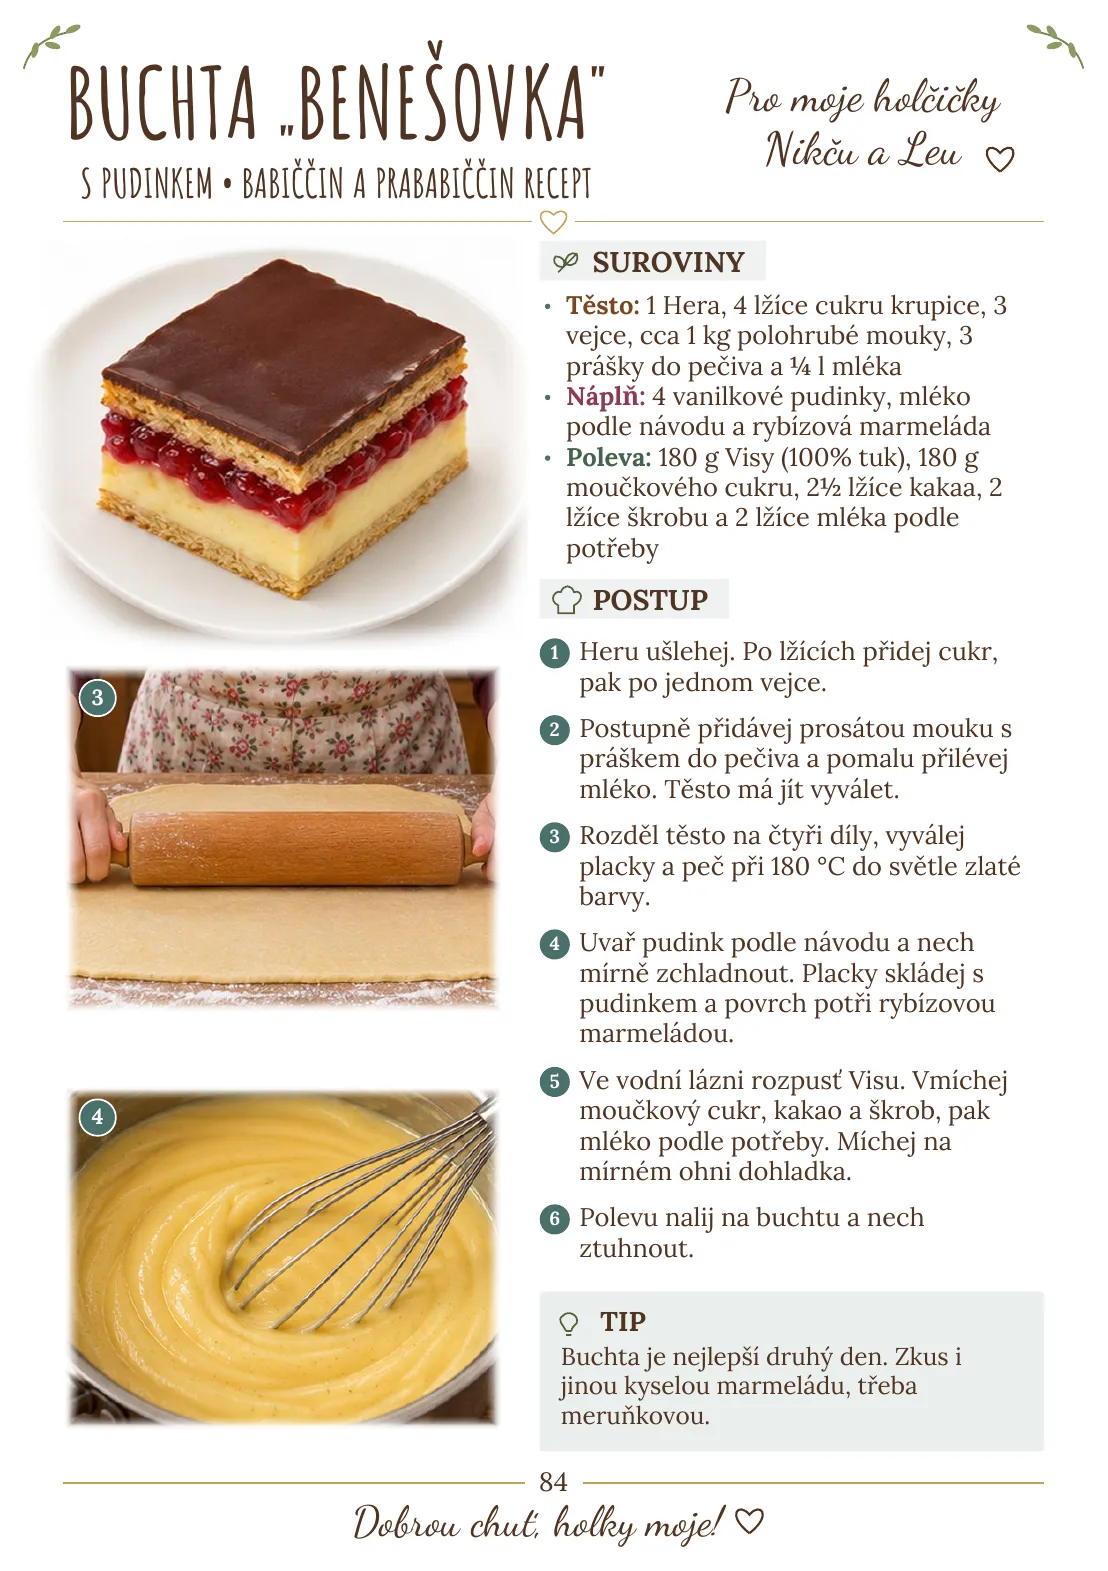
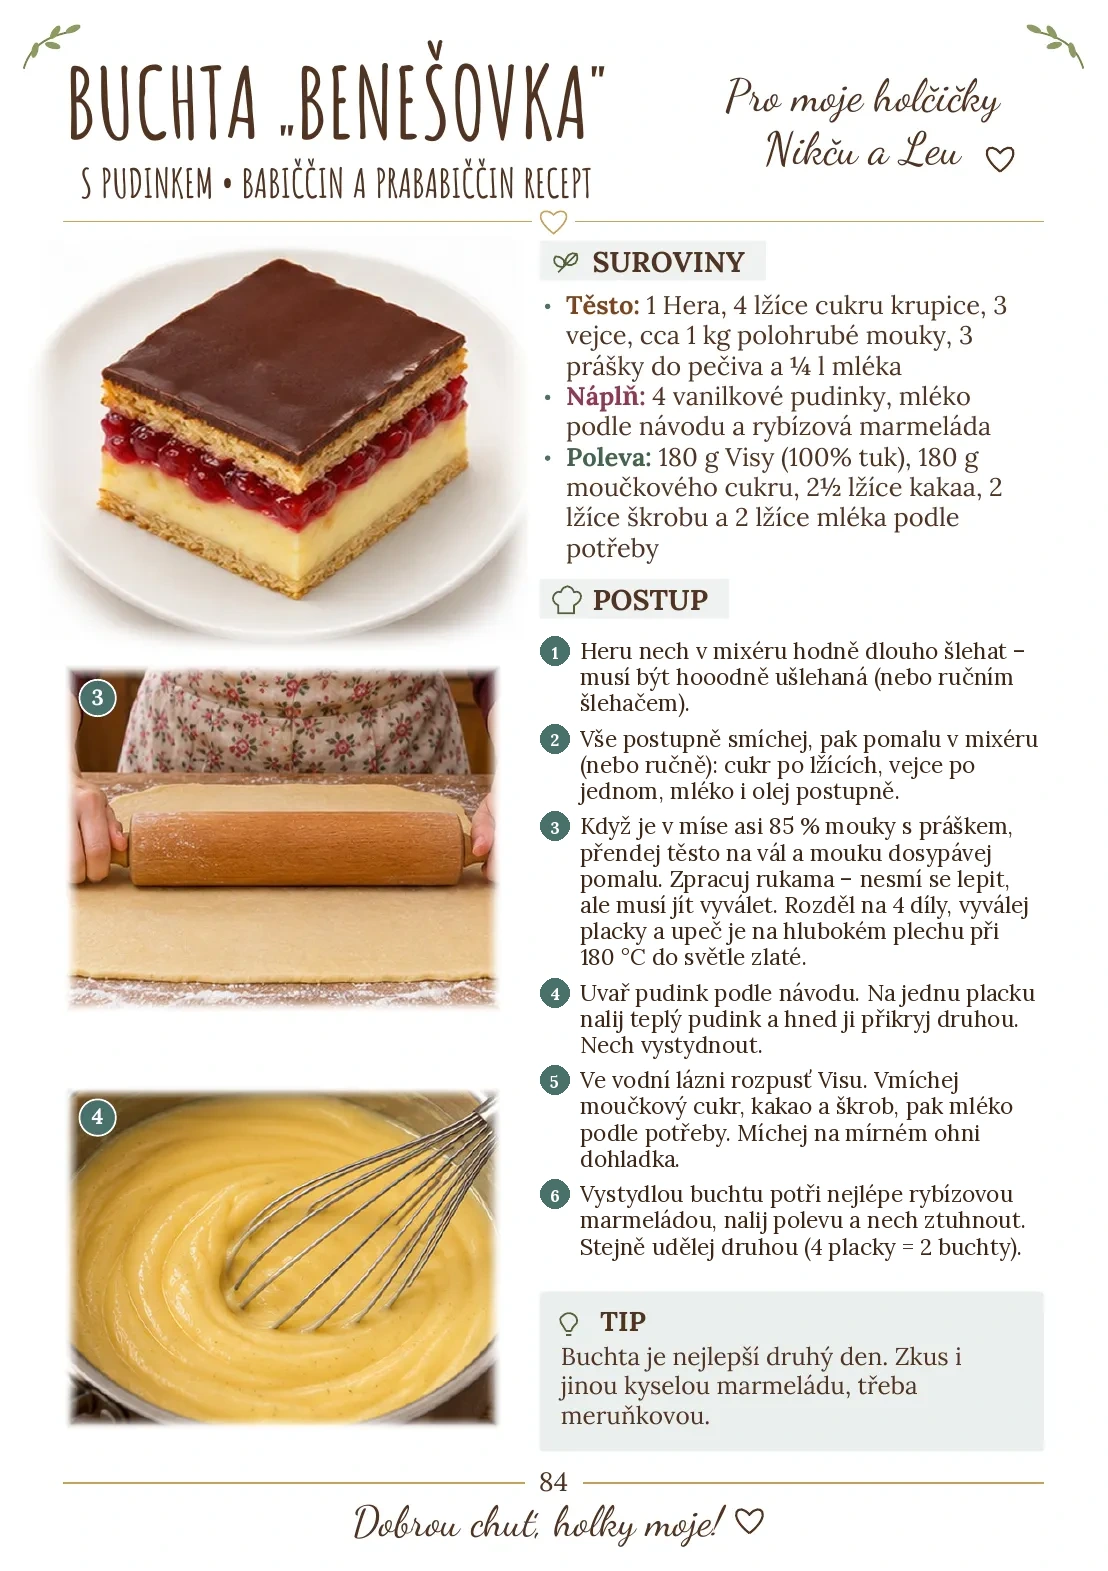
Benešovka: nový postup podle maminčina textu
Claude-Session: https://claude.ai/code/session_01Ws1vwXbsQEwQydLbxLHBm6

Changed region(s): [[0.491, 0.4055, 0.9206, 0.8109]]

diff --git a/sw.js b/sw.js
@@ -1,4 +1,4 @@
-const V='kucharka-v19';
+const V='kucharka-v20';
 const FILES=["./", "index.html", "style.css", "app.js", "data.json", "manifest.webmanifest", "icons/apple-touch-icon.png", "icons/favicon.png", "icons/icon-192.png", "icons/icon-512.png", "icons/icon-maskable-512.png", "pages/p001.webp", "pages/p002.webp", "pages/p003.webp", "pages/p004.webp", "pages/p005.webp", "pages/p006.webp", "pages/p007.webp", "pages/p008.webp", "pages/p009.webp", "pages/p010.webp", "pages/p011.webp", "pages/p012.webp", "pages/p013.webp", "pages/p014.webp", "pages/p015.webp", "pages/p016.webp", "pages/p017.webp", "pages/p018.webp", "pages/p019.webp", "pages/p020.webp", "pages/p021.webp", "pages/p022.webp", "pages/p023.webp", "pages/p024.webp", "pages/p025.webp", "pages/p026.webp", "pages/p027.webp", "pages/p028.webp", "pages/p029.webp", "pages/p030.webp", "pages/p031.webp", "pages/p032.webp", "pages/p033.webp", "pages/p034.webp", "pages/p035.webp", "pages/p036.webp", "pages/p037.webp", "pages/p038.webp", "pages/p039.webp", "pages/p040.webp", "pages/p041.webp", "pages/p042.webp", "pages/p043.webp", "pages/p044.webp", "pages/p045.webp", "pages/p046.webp", "pages/p047.webp", "pages/p048.webp", "pages/p049.webp", "pages/p050.webp", "pages/p051.webp", "pages/p052.webp", "pages/p053.webp", "pages/p054.webp", "pages/p055.webp", "pages/p056.webp", "pages/p057.webp", "pages/p058.webp", "pages/p059.webp", "pages/p060.webp", "pages/p061.webp", "pages/p062.webp", "pages/p063.webp", "pages/p064.webp", "pages/p065.webp", "pages/p066.webp", "pages/p067.webp", "pages/p068.webp", "pages/p069.webp", "pages/p070.webp", "pages/p071.webp", "pages/p072.webp", "pages/p073.webp", "pages/p074.webp", "pages/p075.webp", "pages/p076.webp", "pages/p077.webp", "pages/p078.webp", "pages/p079.webp", "pages/p080.webp", "pages/p081.webp", "pages/p082.webp", "pages/p083.webp", "pages/p084.webp", "pages/p085.webp", "pages/p086.webp", "pages/p087.webp", "pages/p088.webp", "pages/p089.webp", "pages/p090.webp", "pages/p091.webp", "pages/p092.webp", "pages/p093.webp", "pages/p094.webp", "pages/p095.webp", "pages/p096.webp", "pages/p097.webp", "pages/p098.webp", "pages/p099.webp", "pages/p100.webp", "pages/p101.webp", "pages/p102.webp"];
 self.addEventListener('install',e=>{e.waitUntil(caches.open(V).then(c=>c.addAll(FILES)).then(()=>self.skipWaiting()))});
 self.addEventListener('activate',e=>{e.waitUntil(caches.keys().then(k=>Promise.all(k.filter(x=>x!==V).map(x=>caches.delete(x)))).then(()=>self.clients.claim()))});
